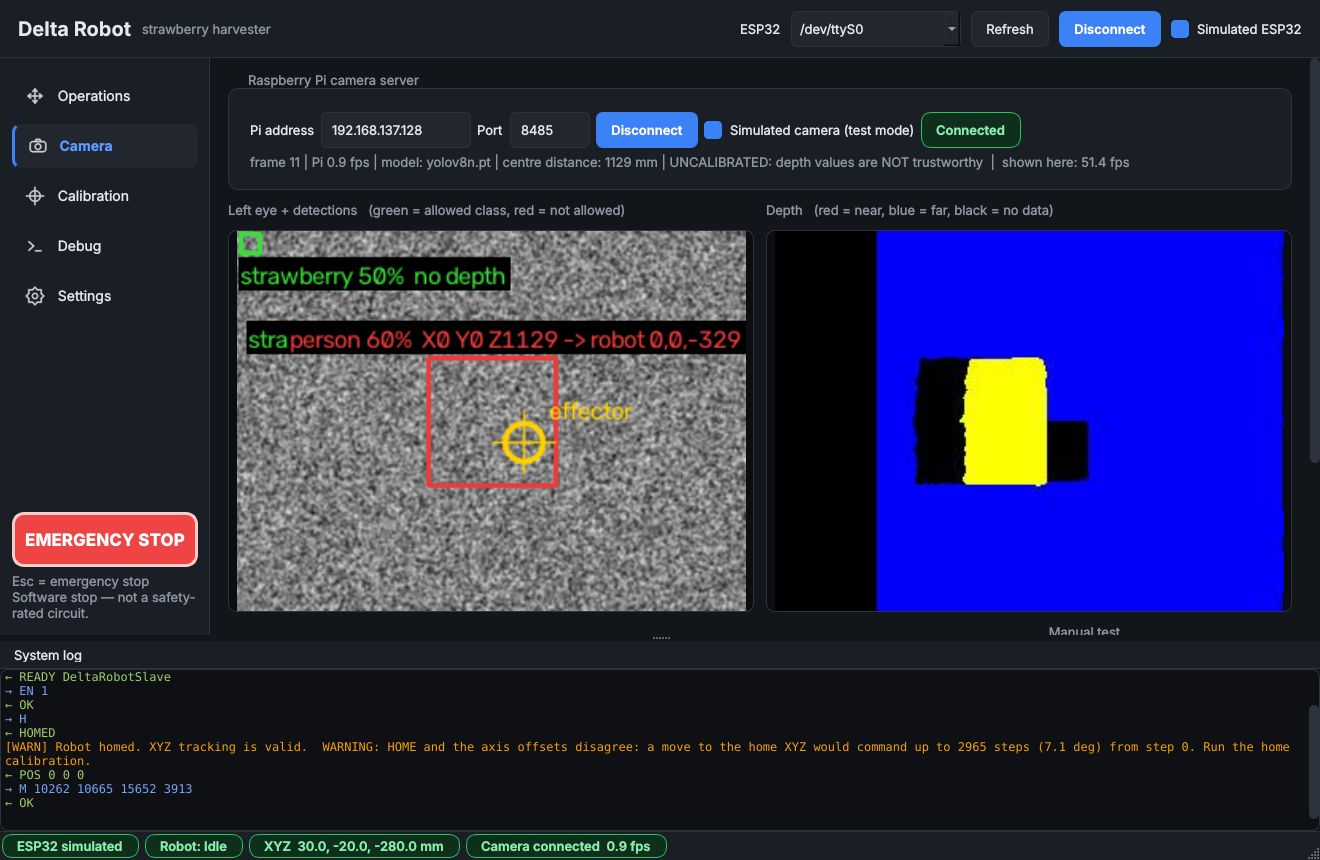
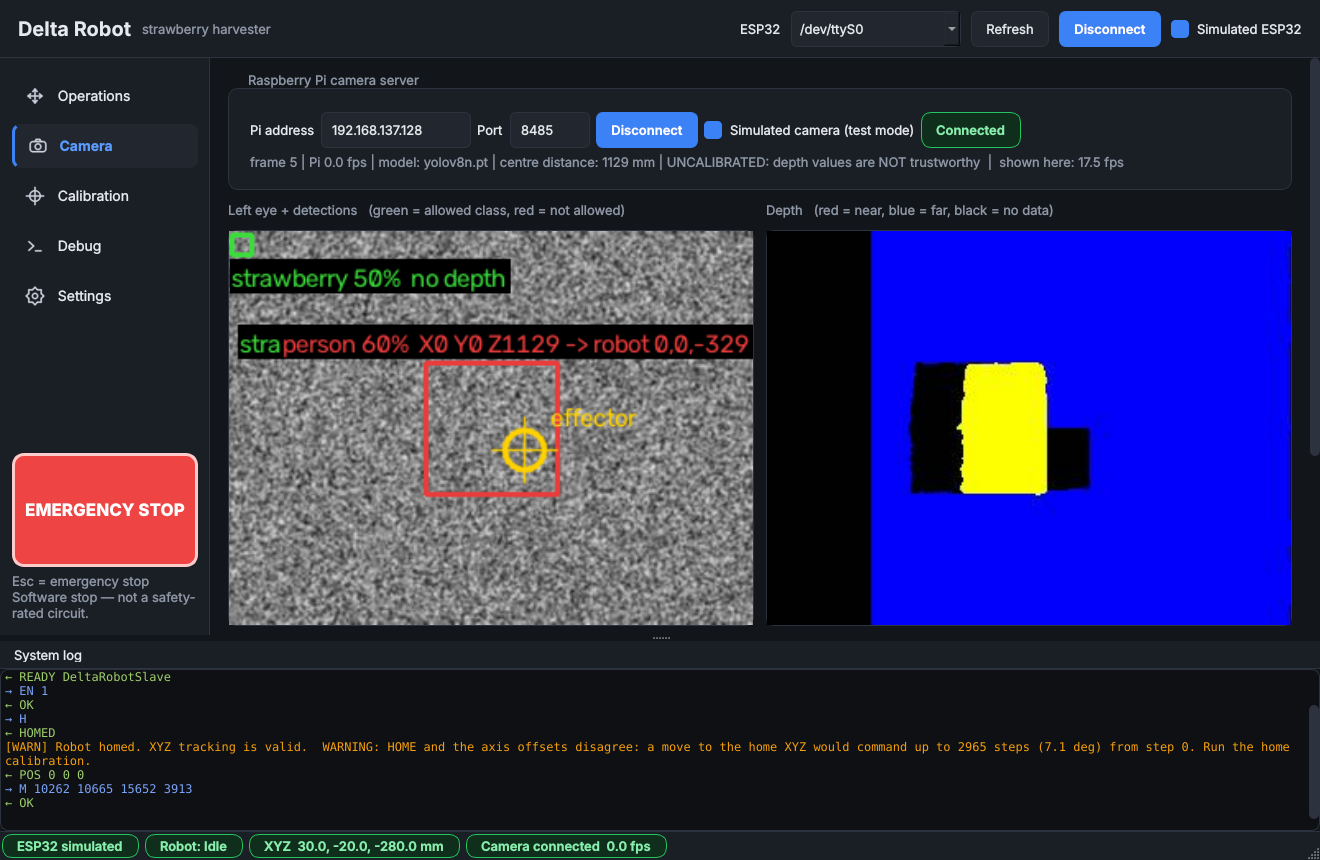
Keep the E-STOP at full height; fix test ordering
The previous commit's general button min-height rule overrode the E-STOP's own minimum height
(Qt style-sheet min-height wins over setMinimumHeight), so it could shrink. That commit was pushed
with this test failing; this one restores the E-STOP (min-height 80 px in the stylesheet) and fixes
the test's page ordering. Full GUI test passes, including the squash check at three window sizes.

Claude-Session: https://claude.ai/code/session_01BoJ59xnsoRVDsrH4sKyPgh

Changed region(s): [[0.0, 0.2721, 1.0, 0.7558], [0.2174, 0.1814, 0.8697, 0.2116]]

diff --git a/Delta_Robot/gui/delta_gui/ui/theme.py b/Delta_Robot/gui/delta_gui/ui/theme.py
@@ -45,7 +45,7 @@ QPushButton#primary:disabled {{ background: #26406b; color: #7f8da6; border-colo
 QPushButton#warning {{ background: #3b2e0e; border-color: {p['warn']}; color: {p['warn']}; }}
 
 /* ---- the E-STOP: big, red, impossible to miss ---- */
-QPushButton#estop {{ background: {p['danger']}; border: 3px solid #fecaca; border-radius: 12px; color: white;
+QPushButton#estop {{ min-height: 80px; background: {p['danger']}; border: 3px solid #fecaca; border-radius: 12px; color: white;
                      font-size: 17px; font-weight: 800; padding: 14px 8px; }}
 QPushButton#estop:hover {{ background: #f87171; }}
 QPushButton#estop:pressed {{ background: {p['danger_dark']}; }}

diff --git a/Delta_Robot/gui/tests/test_gui_qt.py b/Delta_Robot/gui/tests/test_gui_qt.py
@@ -219,7 +219,7 @@ def main():
                 if x.height() < need:
                     squashed.append((type(x).__name__, x.height(), (getattr(x, "text", lambda: "")() or "")[:20]))
             assert not squashed, f"page {key} at {w}x{h}: squashed widgets {squashed[:4]}"
-    win.resize(1320, 860)
+    win.resize(1320, 860); win._show_page("calibration")          # (the loop above ends on another page)
     print("7c. no input or button is squashed on any page at 1100x720, 1310x713 and 1920x1040 (pages scroll instead) OK")
 
     # ----------------------------------------------------------------- 8. wheel safety + test-mode visibility + settings file
